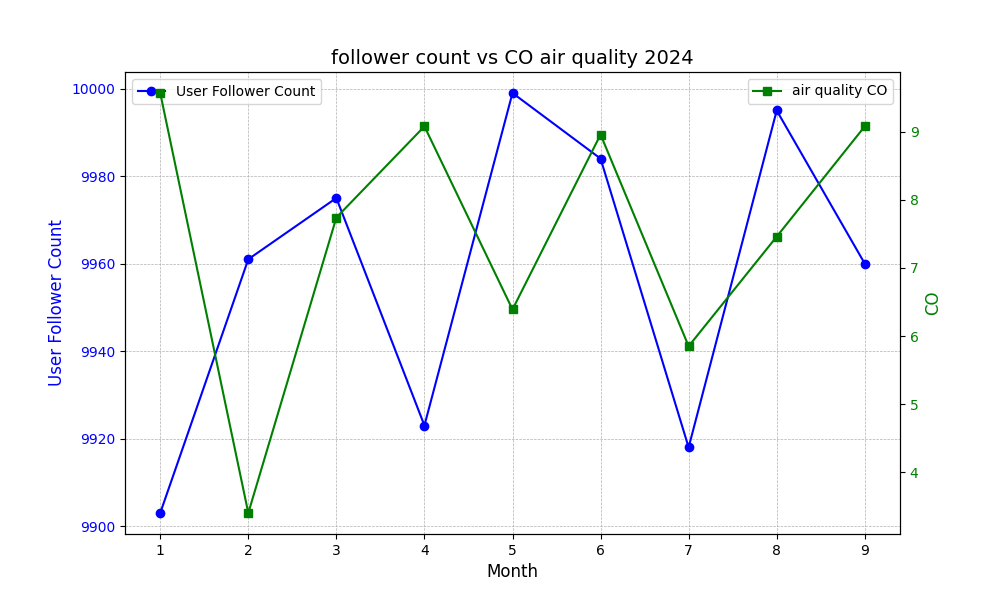
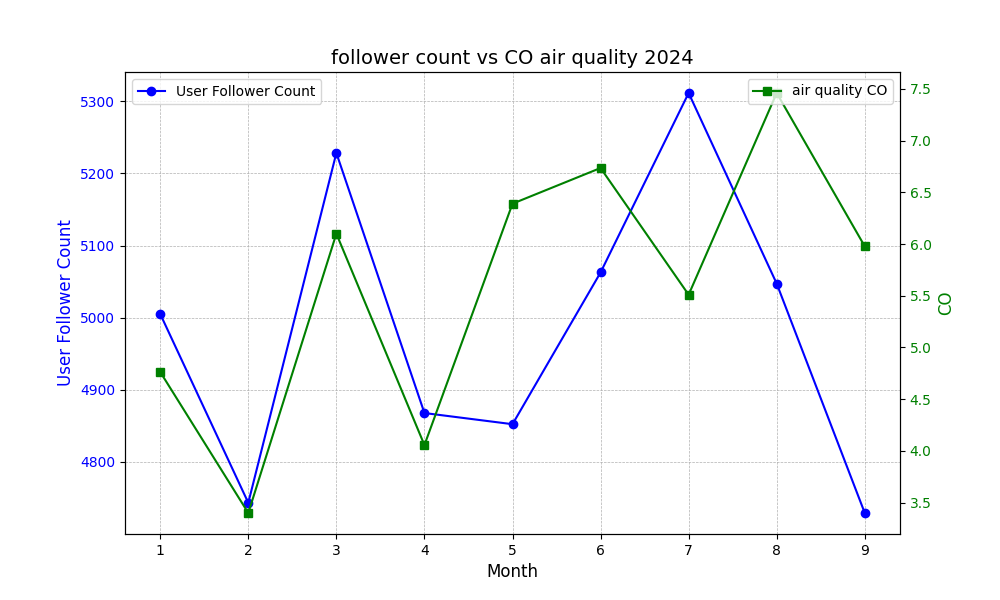
modified info

diff --git a/layoffsvsmovie.py b/layoffsvsmovie.py
@@ -12,9 +12,9 @@ layoffsdata.drop(columns=['Date'], inplace=True)
 moviedata["Worldwide"] = moviedata["Worldwide"].str.replace(',','').astype(int)
 
 # Group by Year and get the max value of 'Cum_Rain' and 'Visitors'
-groupedlayoffsdata = layoffsdata.groupby('Year')['total_laid_off'].max()
-groupedmoviedata = moviedata.groupby('Year')['Worldwide'].max()
-groupedmoviedata = groupedmoviedata[groupedmoviedata > 200000000]
+groupedlayoffsdata = layoffsdata.groupby('Year')['total_laid_off'].mean()
+groupedmoviedata = moviedata.groupby('Year')['Worldwide'].mean()
+
 
 # Merge datasets on 'Year'
 merged_data = pd.merge(groupedlayoffsdata, groupedmoviedata, on="Year")
@@ -50,7 +50,7 @@ ax2.set_ylabel('Worldwide Boxoffice ', fontsize=12, color='green')
 ax2.tick_params(axis='y', labelcolor='green')
 
 # Title and grid
-plt.title('Layoffs vs Worldwide Boxoffice > $200,000,000', fontsize=14)
+plt.title('Layoffs vs Worldwide Boxoffice Sales', fontsize=14)
 ax1.grid(True, which='both', linestyle='--', linewidth=0.5)
 
 # Add legends for both y-axes

diff --git a/weathervstourist.py b/weathervstourist.py
@@ -11,8 +11,8 @@ weatherdata['Year'] = pd.to_datetime(weatherdata['Date']).dt.year
 weatherdata.drop(columns=['Date'], inplace=True)
 
 # Group by Year and get the max value of 'Cum_Rain' and 'Visitors'
-groupedweatherdata = weatherdata.groupby('Year')['Cum_Rain'].max()
-groupedtouristdata = tourismdata.groupby('Year')['Visitors'].max()
+groupedweatherdata = weatherdata.groupby('Year')['Cum_Rain'].mean()
+groupedtouristdata = tourismdata.groupby('Year')['Visitors'].mean()
 
 # Merge datasets on 'Year'
 merged_data = pd.merge(groupedweatherdata, groupedtouristdata, on="Year")

diff --git a/socialmediavsairquality.py b/socialmediavsairquality.py
@@ -13,8 +13,8 @@ airqualitydata['Month'] = pd.to_datetime(airqualitydata['Date']).dt.month
 airqualitydata.drop(columns=['Date'], inplace=True)
 
 # Group by Year and get the max value of 'Cum_Rain' and 'Visitors'
-groupedsocialmediadata = socialmediadata.groupby('Month')['User Follower Count'].max()
-groupedairqualitydata = airqualitydata.groupby('Month')['CO'].max()
+groupedsocialmediadata = socialmediadata.groupby('Month')['User Follower Count'].mean()
+groupedairqualitydata = airqualitydata.groupby('Month')['CO'].mean()
 
 
 # Merge datasets on 'Year'
